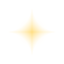
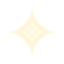
Refine reward art with sliced gold edge, soft bloom, coin stacks and tier-specific motion

Changed region(s): [[0.3438, 0.3438, 0.6562, 0.6562]]

diff --git a/Assets/Scripts/ScratchFlowPresentation.ResultPopup.cs b/Assets/Scripts/ScratchFlowPresentation.ResultPopup.cs
@@ -11,6 +11,7 @@ public sealed partial class ScratchFlowPresentation
     [SerializeField] private Image rewardGoldFrame, rewardGoldRays, rewardDivider;
     [SerializeField] private Image[] rewardCoinDecor = new Image[0];
     [SerializeField] private Image[] rewardSparks = new Image[0];
+    [SerializeField] private TMP_Text rewardAmountShadow;
     private int rewardVisualRank;
     private bool rewardShowCoins;
 
@@ -33,22 +34,31 @@ public sealed partial class ScratchFlowPresentation
     private void UpdateRewardDecoration(float entrance)
     {
         int rank = rewardVisualRank;
-        float strength = rank == 0 ? 0f : .25f + rank * .16f;
+        float strength = rank == 0 ? 0f : rank == 1 ? .48f : rank == 2 ? .65f : rank == 3 ? .83f : 1f;
         float appear = Mathf.SmoothStep(0f, 1f, Mathf.Clamp01(entrance));
-        float pulse = 1f + .22f * Mathf.Sin(Mathf.PI * appear);
+        float pulse = 1f + (.12f + rank * .09f) * Mathf.Sin(Mathf.PI * appear);
         RewardTint(rewardGoldFrame, strength * appear * pulse);
-        RewardTint(rewardGoldRays, strength * .78f * appear * pulse);
+        RewardTint(rewardGoldRays, strength * .90f * appear * pulse);
+        if (rewardGoldRays != null)
+            rewardGoldRays.rectTransform.localScale = Vector3.one * (.78f + .22f * appear + .04f * rank);
         RewardTint(rewardDivider, .48f + strength * .35f);
         for (int i = 0; i < rewardCoinDecor.Length; i++)
-            RewardTint(rewardCoinDecor[i], rewardShowCoins && i % 3 <= Mathf.Min(2, rank)
-                ? appear * (.77f + rank * .05f) : 0f);
+        {
+            float delay = (i % 3) * .10f;
+            float coinIn = Mathf.SmoothStep(0f, 1f, Mathf.Clamp01((entrance - delay) / (1f - delay)));
+            RewardTint(rewardCoinDecor[i], rewardShowCoins && i % 3 < Mathf.Min(3, rank)
+                ? coinIn : 0f);
+            if (rewardCoinDecor[i] != null)
+                rewardCoinDecor[i].rectTransform.localScale = Vector3.one * (.88f + .12f * coinIn);
+        }
         for (int i = 0; i < rewardSparks.Length; i++)
         {
             Image spark = rewardSparks[i];
             bool show = rank > 0 && i < rank * 2;
-            RewardTint(spark, show ? strength * appear * pulse : 0f);
+            float sparkle = Mathf.SmoothStep(0f, 1f, Mathf.Clamp01((entrance - (i / 2) * .10f) / (1f - (i / 2) * .10f)));
+            RewardTint(spark, show ? (.65f + .08f * rank) * sparkle * pulse : 0f);
             if (spark != null)
-                spark.rectTransform.localScale = Vector3.one * (.80f + .20f * appear);
+                spark.rectTransform.localScale = Vector3.one * (.65f + .35f * sparkle + .10f * rank * Mathf.Sin(Mathf.PI * sparkle));
         }
     }
 
@@ -153,7 +163,7 @@ public sealed partial class ScratchFlowPresentation
         int rank = winning ? Mathf.Clamp((int)tier, 1, 4) : 0;
         SetRewardStyle(rank, payout);
         float titleMax = rank == 0 ? 38f : 38f + (rank - 1) * 4f;
-        float amountMax = rank == 0 ? 92f : 112f + (rank - 1) * 8f;
+        float amountMax = rank == 0 ? 92f : 112f + (rank - 1) * 12f;
         if (resultPopupHeading != null)
             resultPopupHeading.text = "BIGLIETTO " + ScratchGameManager.TicketDisplayName(kind);
         if (resultOutcomeLabel != null)
@@ -166,20 +176,28 @@ public sealed partial class ScratchFlowPresentation
         if (resultPopupAmount != null)
         {
             resultPopupAmount.text = (payout > 0 ? "+" : "") + payout.ToString("N0");
-            resultPopupAmount.color = accent;
+            // White base avoids multiplying the gold vertex gradient twice.
+            resultPopupAmount.color = winning ? Color.white : accent;
             resultPopupAmount.enableVertexGradient = winning;
             if (winning)
                 resultPopupAmount.colorGradient = new VertexGradient(
-                    new Color32(255, 244, 194, 255), new Color32(255, 244, 194, 255),
-                    new Color32(235, 164, 54, 255), new Color32(235, 164, 54, 255));
+                    new Color32(255, 249, 210, 255), new Color32(255, 249, 210, 255),
+                    new Color32(244, 180, 60, 255), new Color32(244, 180, 60, 255));
             resultPopupAmount.fontSizeMax = amountMax;
-            SetPopupY(resultPopupAmount.rectTransform, winning ? -218f : -186f);
+            SetPopupY(resultPopupAmount.rectTransform, winning ? -214f : -186f);
+            if (rewardAmountShadow != null)
+            {
+                rewardAmountShadow.gameObject.SetActive(winning);
+                rewardAmountShadow.text = resultPopupAmount.text;
+                rewardAmountShadow.fontSizeMax = amountMax;
+                SetPopupY(rewardAmountShadow.rectTransform, -218f);
+            }
         }
         if (resultPopupUnit != null)
         {
             resultPopupUnit.text = "MONETE";
             resultPopupUnit.color = accent;
-            SetPopupY(resultPopupUnit.rectTransform, winning ? -333f : -305f);
+            SetPopupY(resultPopupUnit.rectTransform, winning ? -338f : -305f);
         }
         if (resultPopupNet != null) resultPopupNet.text = PopupNet(payout, cost, voided);
         if (resultMatchIcons == null) return;
@@ -218,8 +236,8 @@ public sealed partial class ScratchFlowPresentation
         resultPopup.SetActive(true);
         if (resultPopupPanel != null) resultPopupPanel.gameObject.SetActive(true);
         SetResultDimmer(.55f);
-        ApplyRewardEntrance(1f);
         ApplyPopupOutcome(kind, tier, payout, voided, sprites);
+        ApplyRewardEntrance(1f);
         RefreshResultButtons(kind, true, affordable, upgrades);
         ticketChooser.Refresh();
         return true;

diff --git a/Assets/Scripts/Editor/ScratchTransitionQA.PopupPreview.cs b/Assets/Scripts/Editor/ScratchTransitionQA.PopupPreview.cs
@@ -138,7 +138,7 @@ internal static partial class ScratchTransitionQA
         if (b[1].y > a[0].y + .1f || Mathf.Abs(b[1].y - a[0].y) > .5f) return false;
         int rank = !voided && payout > 0 ? (int)tier : 0;
         float[] titleMax = { 38, 38, 42, 46, 50 };
-        float[] amountMax = { 92, 112, 120, 128, 136 };
+        float[] amountMax = { 92, 112, 124, 136, 148 };
         if (rank < 0 || rank > 4 || Mathf.Abs(outcome.fontSizeMax - titleMax[rank]) > .01f ||
             Mathf.Abs(amount.fontSizeMax - amountMax[rank]) > .01f) return false;
         var frame = so.FindProperty("rewardGoldFrame").objectReferenceValue as Image;
@@ -153,13 +153,16 @@ internal static partial class ScratchTransitionQA
         {
             var image = coins.GetArrayElementAtIndex(i).objectReferenceValue as Image;
             if (image == null || image.raycastTarget || image.gameObject.activeInHierarchy !=
-                (rank > 0 && payout < 10000 && i % 3 <= Mathf.Min(2, rank))) return false;
+                (rank > 0 && payout < 10000 && i % 3 < Mathf.Min(3, rank))) return false;
         }
         for (int i = 0; i < sparks.arraySize; i++)
         {
             var image = sparks.GetArrayElementAtIndex(i).objectReferenceValue as Image;
             if (image == null || image.raycastTarget || image.gameObject.activeInHierarchy != (rank > 0 && i < rank * 2)) return false;
         }
+        var shadow = so.FindProperty("rewardAmountShadow").objectReferenceValue as TMP_Text;
+        if (shadow == null || shadow.raycastTarget || shadow.gameObject.activeInHierarchy != (rank > 0) ||
+            (rank > 0 && (shadow.text != amount.text || amount.color != Color.white))) return false;
         Color expected = affordable ? new Color32(32,51,46,255) : new Color32(249,239,216,255);
         var disabled = button.colors.disabledColor;
         if (repeat.color != expected || button.interactable != affordable ||

diff --git a/Assets/Scripts/ScratchFlowPresentation.TicketAnimation.cs b/Assets/Scripts/ScratchFlowPresentation.TicketAnimation.cs
@@ -69,7 +69,8 @@ public sealed partial class ScratchFlowPresentation
             ApplyRewardEntrance(0f);
             RefreshResultActions();
         }
-        ApplyRewardEntrance(Mathf.Clamp01((Time.unscaledTime - resultOpenedAt) / .32f));
+        float duration = rewardVisualRank == 0 ? .26f : .32f + .035f * (rewardVisualRank - 1);
+        ApplyRewardEntrance(Mathf.Clamp01((Time.unscaledTime - resultOpenedAt) / duration));
     }
 
     private void SetResultDimmer(float alpha)
@@ -101,7 +102,7 @@ public sealed partial class ScratchFlowPresentation
         UpdateRewardDecoration(value);
         if (rewardValueGroup != null)
         {
-            float pop = game.TicketPayout > 0 ? .035f * Mathf.Sin(Mathf.PI * value) : 0f;
+            float pop = rewardVisualRank > 0 ? (.02f + .018f * rewardVisualRank) * Mathf.Sin(Mathf.PI * value) : 0f;
             rewardValueGroup.transform.localScale = Vector3.one * (.96f + .04f * value + pop);
         }
         float actions = EaseOut(Mathf.Clamp01((t - .38f) / .62f));
